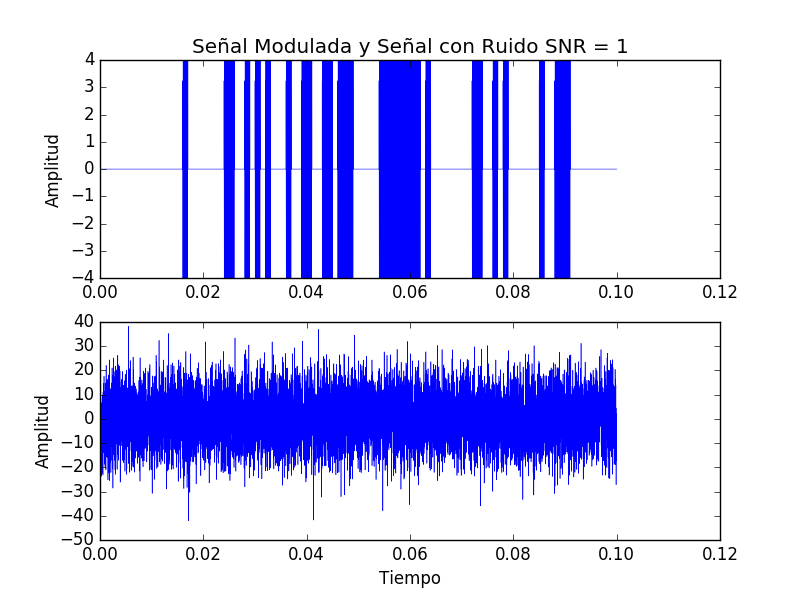
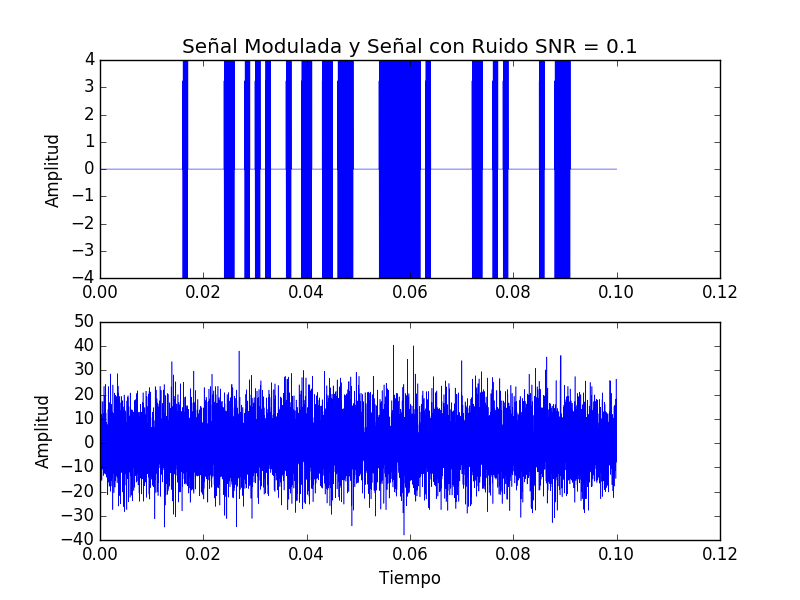
Last commit

diff --git a/lab4.py b/lab4.py
@@ -260,7 +260,7 @@ def printMenu():
 	print("		Menu\n")
 	print("1) Mostrar Señal Digital Original")
 	print("2) Mostrar Señal Digital Modulada")
-	print("3) Mostrar estudio con SNR = 0.5")
+	print("3) Mostrar estudio con SNR = 0.2")
 	print("4) Mostrar estudio con SNR = 0.1")
 	print("5) Mostrar estudio con SNR = 0.05")
 	print("6) Mostrar estudio con SNR = 0.025")
@@ -328,7 +328,7 @@ while(True):
 	elif(menu == "4"):
 		modulatedWithNoise, noise = addNoise(modulated, 0.1)
 		demodulated = OOKdemodulation(modulatedWithNoise,time,f)
-		graphModulated(time2,modulated,modulatedWithNoise,datos,"Señal Modulada y Señal con Ruido SNR = 1","Ruido1")
+		graphModulated(time2,modulated,modulatedWithNoise,datos,"Señal Modulada y Señal con Ruido SNR = 0.1","Ruido1")
 		graphOriginalAndDemodulate(binarySignal,demodulated,bp,datos, "Señal Original y Demodulada con SNR = 0.1","01SNR")
 		
 	elif(menu == "5"):
